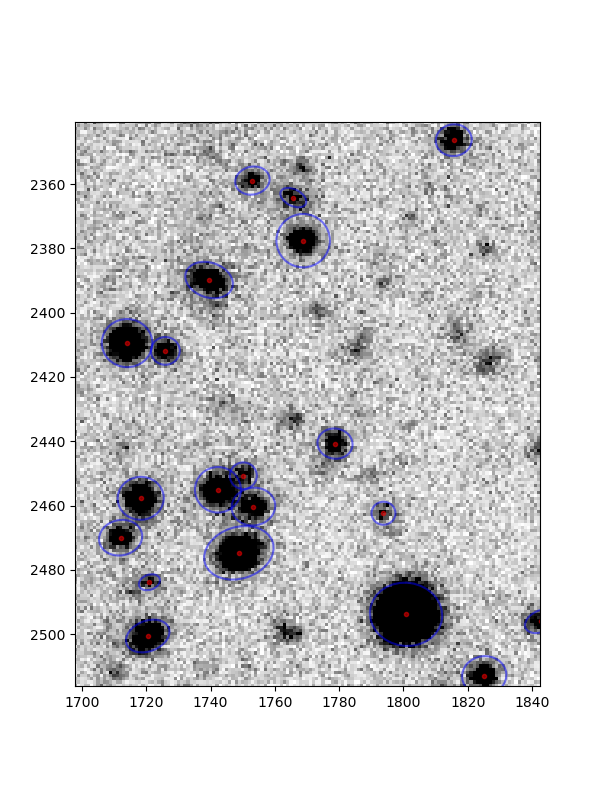
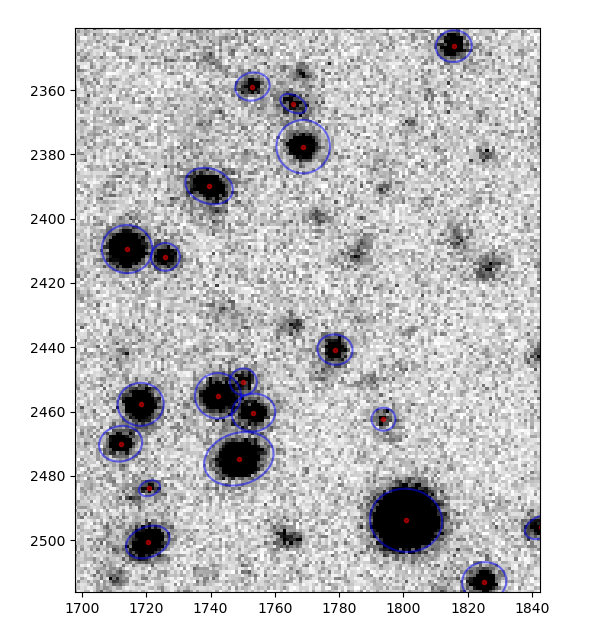
plots

diff --git a/astroop3.py b/astroop3.py
@@ -17,7 +17,7 @@ from glob import glob
 import pickle
 from scipy.interpolate import RegularGridInterpolator
 import matplotlib.cm as cm
-
+import matplotlib.gridspec as gs
 
 class Process_fake(Process2):
     def __init__(
@@ -43,10 +43,12 @@ class Process_fake(Process2):
 
 
         pic = ninter((X,Y))
+        cls.noise1 = pic
         wnoise = np.random.normal(noise_params['whiteshift'],noise_params['whiterange'],(size[0],size[1]))
-        pic += wnoise
-        
-        cls.img = pic
+        pic1 = pic + wnoise
+        cls.noise2 = pic1
+
+        cls.img = pic1.copy()
         print(cls.img)
         print(cls.img.shape)
         cls.show_img()
@@ -269,7 +271,9 @@ class Process_frompkl(Process_fake):
             loaded = pickle.load(f)
         cls.zpinst = 25.3
         cls.zpinst_error = 0.02
-        cls. img = loaded.img
+        cls.noise1 = loaded.noise1
+        cls.noise2 = loaded.noise2
+        cls.img = loaded.img
         cls.galprops =  loaded.galprops
         cls.starprops = loaded.starprops
         cls.average_background = loaded.average_background
@@ -302,20 +306,40 @@ if __name__ == '__main__':
     # testobjs = {'numgal': 2000, 'numstar': 1000, 'galamp': [20000,20], 'staramp': [20000,20], 'galwidth': [10,2], 'galskew': [1,2], 'gnrange': [0.5,4] , 'starwidth': [10,4]}
     # test = Process_fake(size = [3000,3000], noise_params={'octaves': 2, 'seed': 55, 'scale': 17, 'shift': 3418.8155053212563, 'whiterange': 10, 'whiteshift': 5}, objparams=testobjs)
 
-    # test.save_pkl('TrainingData2')
+    # test.save_pkl('ReportImg')
 
     # test.show_img(objscatter = True)
 
-    test = Process_frompkl('TrainingData2')
-    test.img += np.random.normal(3450,100,(test.img.shape[0],test.img.shape[1]))
-    fig, ax = test.show_img()
-    handle, = ax[0].get_images()
-    ax[0].set_xticks([])
-    ax[0].set_yticks([])
-    ax[1].set_yticks([])
-    ax[1].set_xticks([])
-    fig.colorbar(handle, ax = ax[0],location = 'left')
+    test = Process_frompkl('ReportImg')
+    #test.img += np.random.normal(3450,100,(test.img.shape[0],test.img.shape[1]))
 
+    fig, ax = plt.subplots(1,2)
+    fig.set_size_inches(10,4)
+    print(ax)
+    cmap = 'inferno'
+    normalise = visualization.ImageNormalize(test.img,interval=visualization.AsymmetricPercentileInterval(0,85),stretch=visualization.LinearStretch())  
+
+    for i,ai in enumerate(ax):
+        ax[i].tick_params(labelbottom = False, labelleft = False)
+
+    ax[0].imshow(test.noise1, cmap = cmap)
+    ax[0].set_xlabel('(a)')
+    ax[1].imshow(test.noise2, cmap = cmap)
+    ax[1].set_xlabel('(b)')
+    fig.tight_layout()
+
+    fig, ax = plt.subplots(1,2)
+    fig.set_size_inches(10,4)
+    for i,ai in enumerate(ax):
+        ax[i].tick_params(labelbottom = False, labelleft = False)
+
+    im = ax[0].imshow(test.img, cmap = cmap)
+    ax[1].imshow(test.img, cmap = 'Greys', norm = normalise)
+
+    ax[0].set_xlabel('(c)')
+    ax[1].set_xlabel('(d)')
+    plt.colorbar(im, ax = ax[0], location = 'left', shrink = 0.9)
+    fig.tight_layout()
     #data = test.createdataset()
     plt.show()
     tcat = test.test_ident()
@@ -324,7 +348,6 @@ if __name__ == '__main__':
     y = tcat['y-centroid']
 
     plt.figure(figsize=(10,8))
-    normalise = visualization.ImageNormalize(test.img,interval=visualization.AsymmetricPercentileInterval(5,95),stretch=visualization.LinearStretch())
     plt.imshow(test.img,cmap='Greys',norm=normalise)
     # plt.imshow(image.original,cmap='inferno',norm=colors.LogNorm())
     plt.plot(x,y,'.',color='red',alpha=0.5)
